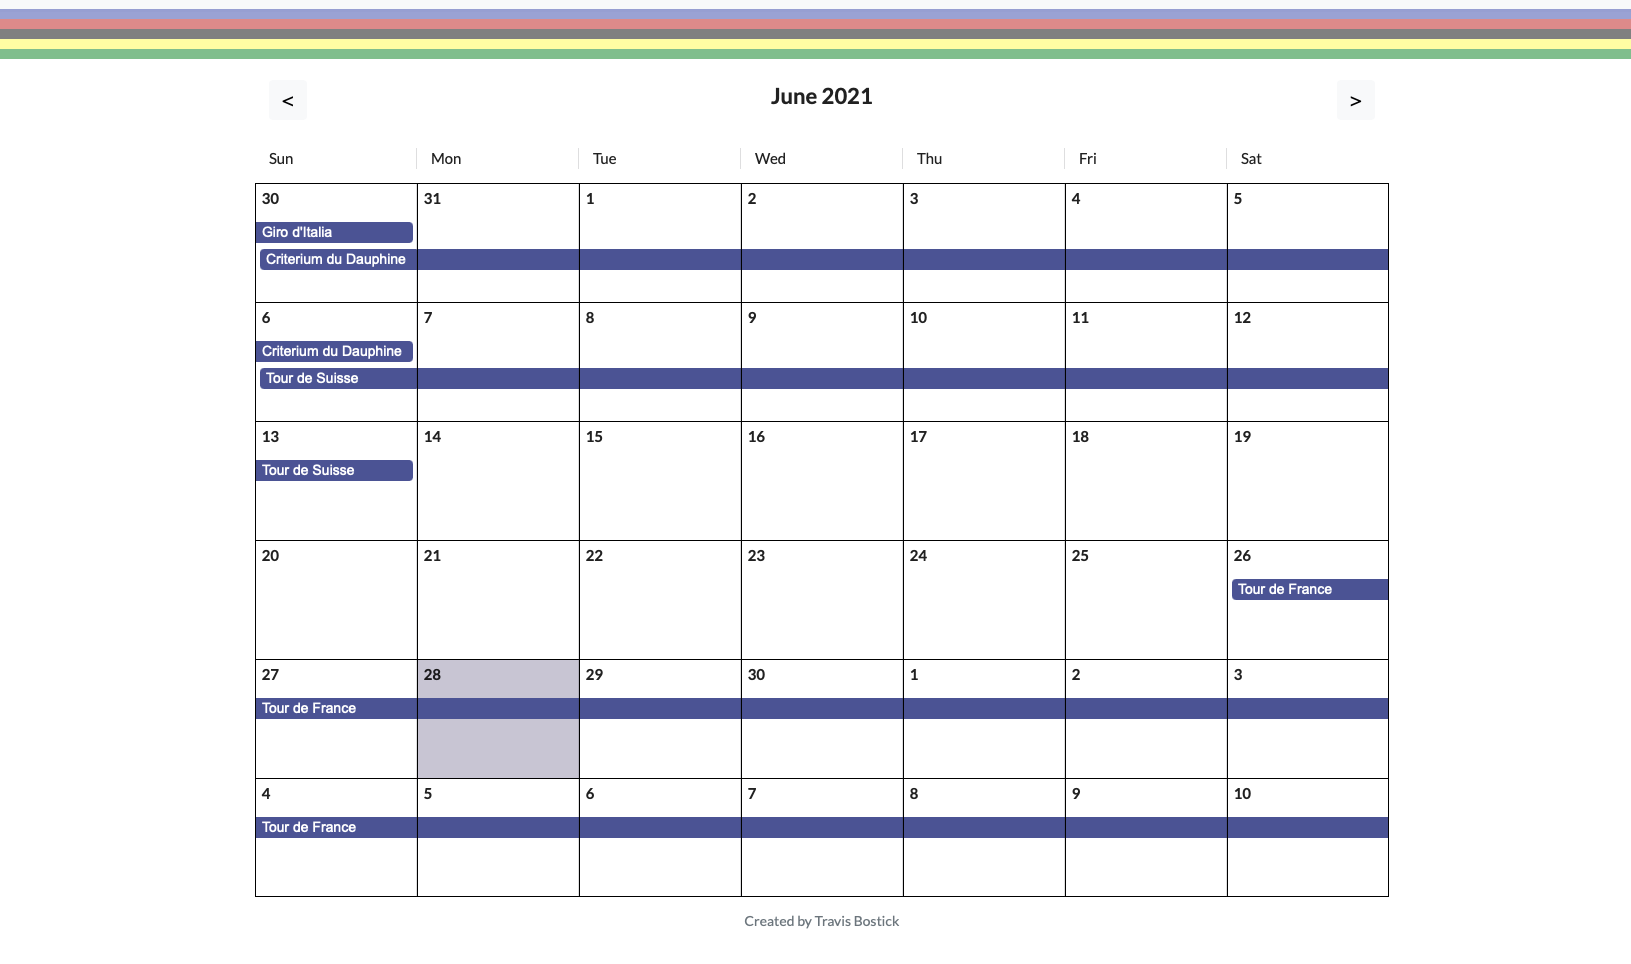
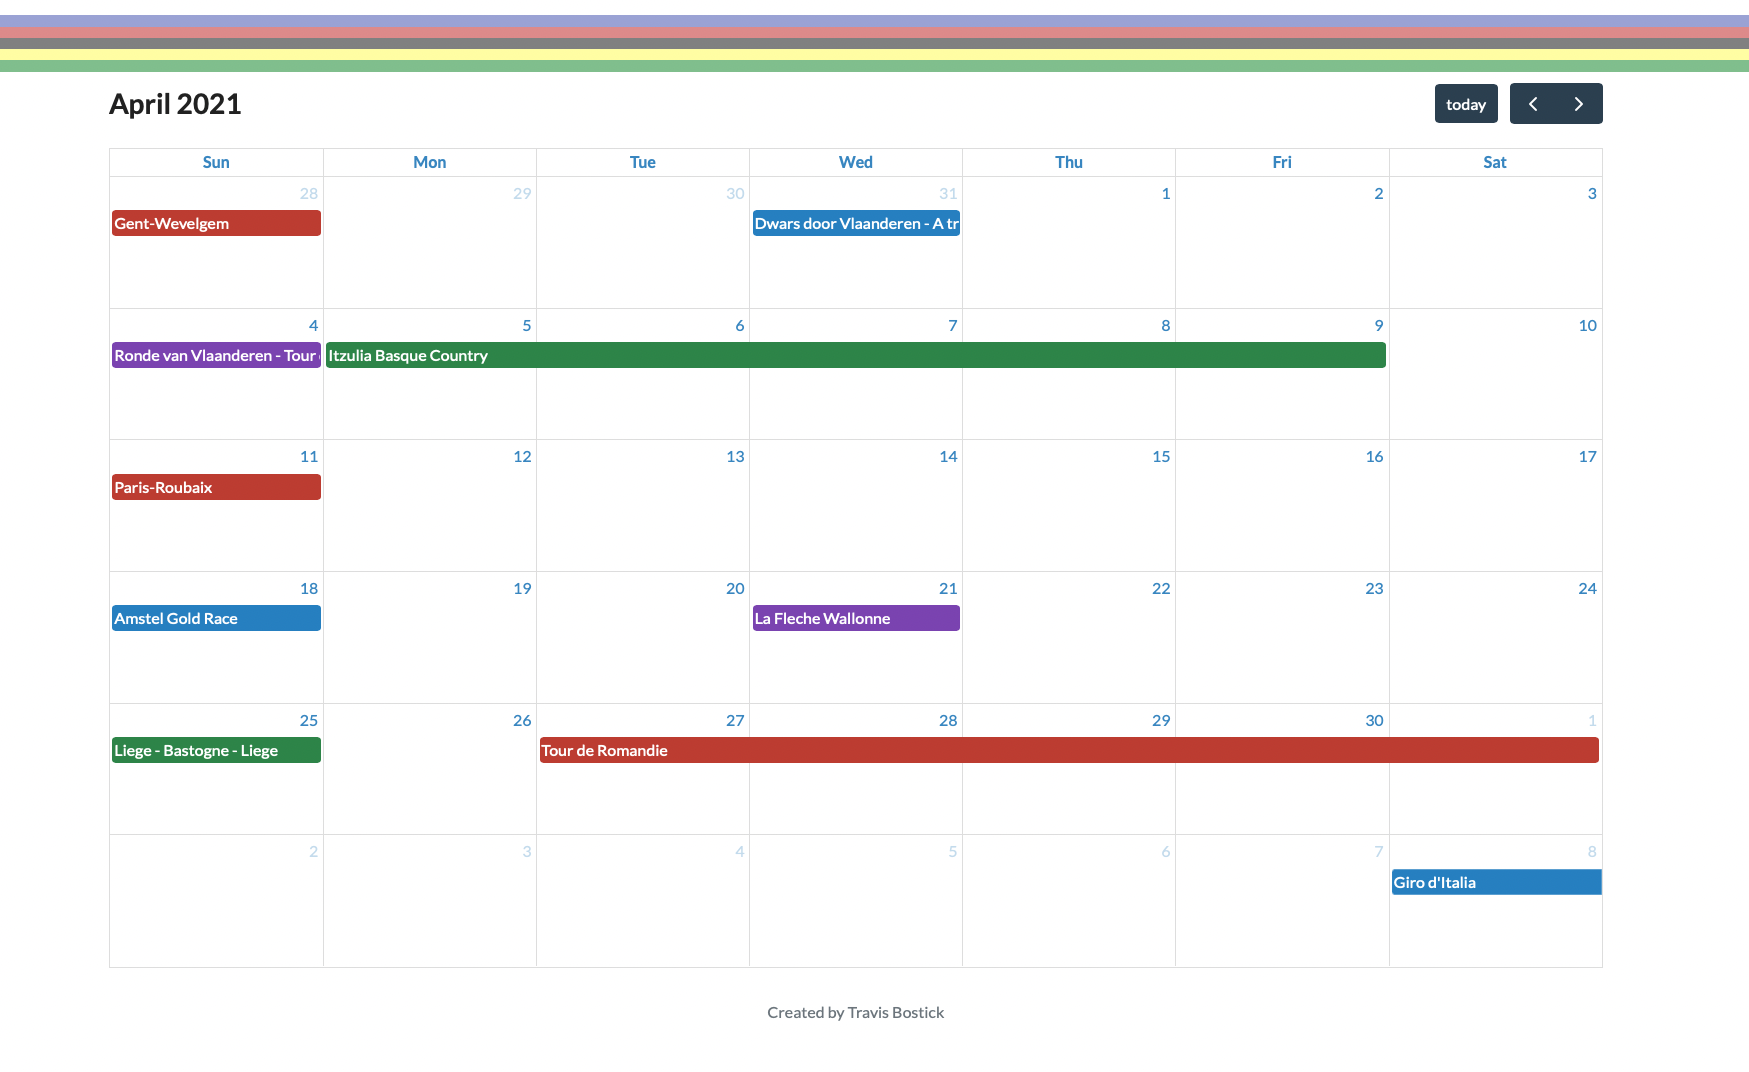
Update Pro Cycling Schedule Page

diff --git a/src/components/ProCyclingSchedulePage.jsx b/src/components/ProCyclingSchedulePage.jsx
@@ -23,8 +23,10 @@ function ProCyclingSchedulePage() {
           alt='calendar image'
         />
         <p className='intro'>
-          I really enjoyed building this calendar from scratch using{' '}
-          <a href='https://reactjs.org'>React</a>. The data comes from the{' '}
+          The calendar is made in <a href='https://reactjs.org'>React</a>. I
+          initially built an entire calendar from scratch but am now using the{' '}
+          <a href='https://fullcalendar.io'>FullCalendar</a> framework to
+          display the events. The data comes from the{' '}
           <a href='https://developer.sportradar.com'> Sportradar API</a> and I'm
           using{' '}
           <a href='https://firebase.google.com/docs/firestore'>
